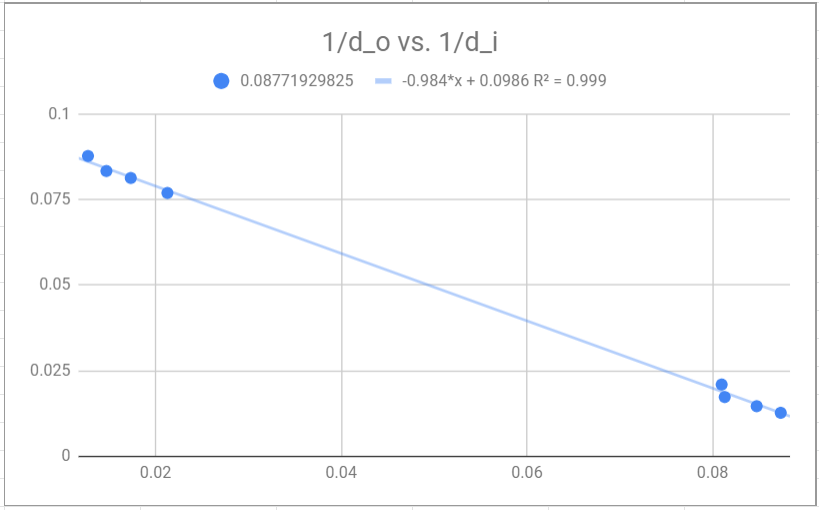
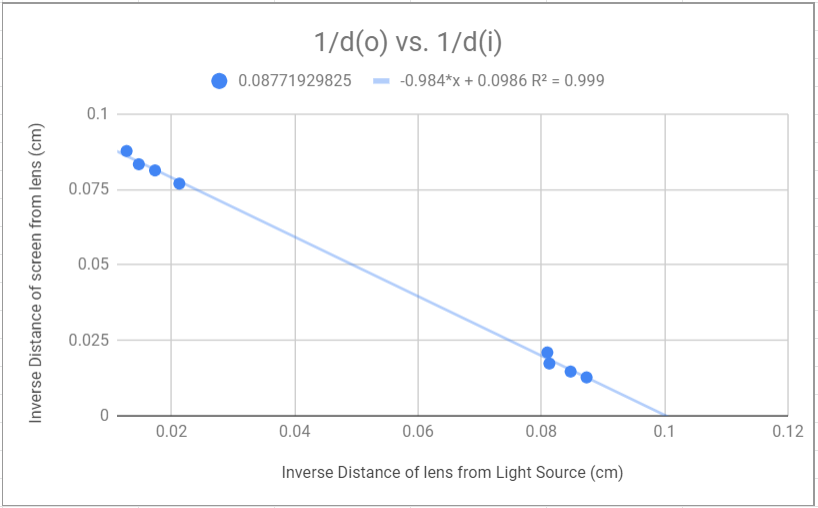
Finished revising report and updated images

diff --git a/oranges/LensesLab.md b/oranges/LensesLab.md
@@ -1,17 +1,38 @@
 Gabriel Paris  
 Xander Waltman  
 Miles Strubel  
-PH 216  
-TA: James Powell
 
-# Lab 4: Lenses
+PH 216  
+TA: James Powell  
+
+# Makeup Lab: Lenses
 
 ### Introduction & Preparation
+The purpose of the lab was to become familiar with and properly utilize equations and terms to understand how light behaves when it passes through lenses. This was done by shining light rays through different lenses and recording the focal points. We were able to show that light obeys laws such as Snell's Law, as well as equations such as the Thin Lens Equation<sup>[1]</sup>, Thin Lens Equation<sup>[2]</sup> and Magnification Equation<sup>[3]</sup>.
 
-### Procedure
+Snell's Law says that the angle of refraction before and after light passes through a medium of given index are equivalent. That is,
+<center>
+n<sub>1</sub>sin&theta;<sub>1</sub> = n<sub>2</sub>sin&theta;<sub>2</sub> [1]
+</center>  
+There is also a relationship between the distance of the image, the object (that is, the image that is produced and the image source), and the focal length.
+<center>
+1/f = 1/d<sub>o</sub> + 1/d<sub>i</sub>
+[2]
+</center>
+This is known as the Thin Lens Equation.  
+The final equation that is relevant for this lab is the Magnification Equation, which shows the relationship between the height of the image with respect to the object and the distance between the image and the object.
+<center>
+M = h<sub>i</sub>/h<sub>o</sub> = -d<sub>i</sub>/d<sub>o</sub>
+[3]
+</center>  
 
-### Data
-|Focal length with| Measurement (cm)|
+### Procedure  
+The first part of the procedure focused on the refraction of convex and concave lenses. The focal point of the lens was measured by shining five light rays from a light box onto paper and tracing the light rays when a convex and concave lens were placed in the light path. The focal length was determined by measuring from the lens to the point at which the rays converge. The light box was changed to the three-light-ray setting, and the two lenses were then put in front of the light source together to observe and record the difference in focal point. The distance of the concave lens from the convex lens was changed to record how the distance affected the focal point of the light source. To see how the angle of refraction affected the focal point of the light, the five-light-ray setting was used, except the middle three rays and the outer two rays were blocked out in turn, so the remaining light rays refracted in the lens and the focal point could be measured.
+
+For the second part of the procedure, a light box, a screen, and a optical bench were used to determine the focal length of a thin lens. The positive lens used could be secured to the optical bench, and the screen was set up at the end opposite the light source, that is, opposite ends of the optical bench. With the light source stationary, the lens was moved down the optical bench until two different images become focused (indicating that there is a focal point). The distance from the light source to the lens, the distance from the lens to the screen, the height of the object (which is constant), and the height of the image were recorded in Table 1. The screen was then moved closer to the light source, which was recorded as well, until two images could no longer be identified.  
+
+### Data  
+|Focal length with:| Measurement (cm)|
 |---|---|
 |Convex Lens| 12.1 cm|
 |Concave Lens| 6.65 cm|
@@ -22,26 +43,30 @@ Table 1: Observed values of distance from image and the height of the image.
 ![Table 1](img/Table1Lenses.PNG)  
 
 Plot 1: Relationship between inverse initial distance and inverse final distance.  
-![Plot of table](img/LensDataPlot.PNG)  
-### Analysis
+![data table](img/LensDataPLot.PNG)  
 
-### Conclusion
+### Analysis  
+An interesting observation was that the plot in Plot 1 had two "clusters" of data points, which correspond to the two focal points that were identified in the thin lens part of the procedure. Another observation is that, in the focal length part of the procedure, the focal point of the convex lens is about two times further from the lens as the focal point by the concave lens.  
 
-### Questions
+### Conclusion  
+This lab showed how light travels through a lens, and how the shape of the lens (concave versus convex) changes the focal point of the light rays. For the thin lens part of the procedure, we could see the application of the Magnification equation, which resulted in a small magnification when the lens was near the light source, and a large magnification when the lens was further from the light source.  
+
+### Questions  
 1. *Write down the equation for Snell's Law and draw a descriptive diagram showing the variables.*  
-n<sub>1</sub>sin&theta;<sub>1</sub> = n<sub>2</sub>sin&theta;<sub>2</sub>  
+n<sub>1</sub>sin&theta;<sub>1</sub> = n<sub>2</sub>sin&theta;<sub>2</sub>
+![diagram](img/LensEquationDiagram.PNG)
 1. *What do you think might be the difference between a positive and negative lens?*  
 A positive lens has its focal point in front of it and a negative lens has its focal point behind it.  
 1. *Draw what you think a concave lens would look like.*  
 ![convex lens](img/ConcaveLensExample.PNG)
 1. *Draw what you think a convex lens would look like.*  
-![concave lens](img/ConcaveLensExample.PNG)
+![concave lens](img/ConvexLensExample.PNG)
 1. *Is the focal point of the lens in front (between the light source and the lens) or behind (other side of the lens with respect to the light source) the lens? Explain.*  
 The focal point is behind the lens. It is similar to light approaching the edge of a circle from the outside.
 1. *Is the focal point of the lens in front or behind the lens? Explain.*  
 The focal point is in front of the lens. It is similar to light approaching the edge of a circle from the inside.
 1. *What does this tell you about the differences between the focal points and focal lengths of convex and concave lenses?*  
-
+This shows that there are different focal points for the lenses, which is what we determined earlier in the procedure.
 1. *What can you saw about the relationship between the two lenses in terms of their focal lengths?*  
 The curve of the convex and concave lens are approximately the same, so they cancel each other out when used simultaneously.
 1. *What happens to the focal point of the lens system as you move the concave lens further away from the convex lens?*  
@@ -70,6 +95,8 @@ The image is inverted. There is a focal point between the lens and the screen, s
 1. *Is the image real or virtual? How do you know?*  
 The image is virtual because the image is inverted.
 1. *Why are there two positions where the image is in focus?*  
-
-1. *Write down the equation for magnification by a thin lens.*
-1. *What is the significance of the negative sign?*
+The two positions indicate the focal points of specific rays of light. For the light that passes through the lens at a larger angle, the focal point will be closer to the lens, and when the light passes through the lens at a smaller angle, the focal point will be farther away. This was shown earlier in the procedure when the beams of light didn't completely converge to the focal point.
+1. *Write down the equation for magnification by a thin lens.*  
+M = h<sub>i</sub>/h<sub>o</sub> = -d<sub>i</sub>/d<sub>o</sub>
+1. *What is the significance of the negative sign?*  
+The negative sign indicates that the image is inversed.
